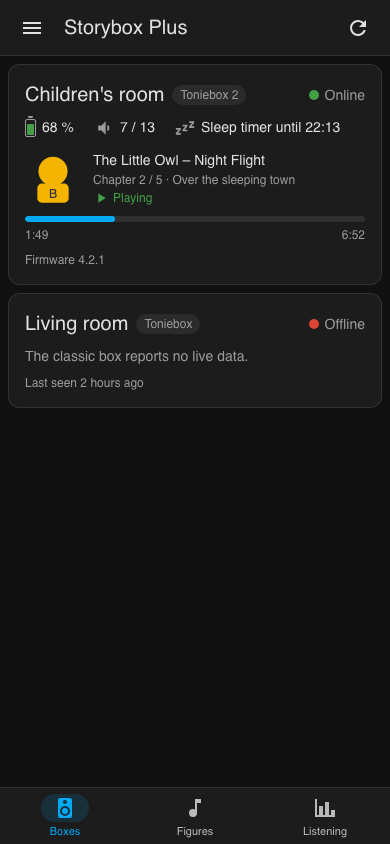
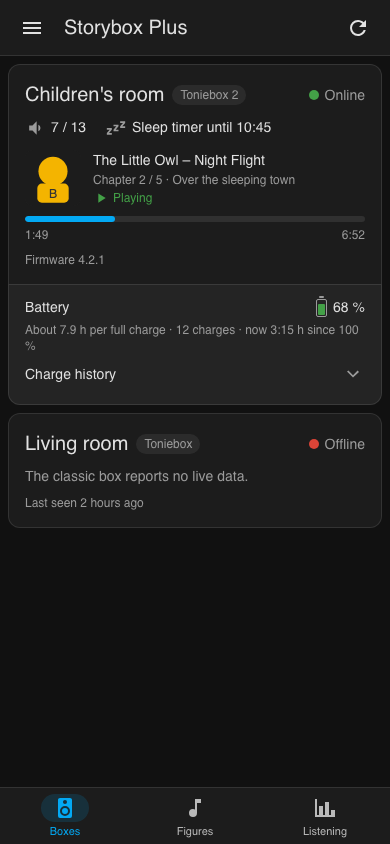
A note on the Listening tab says the times are counted locally; screenshots with the battery tile
The Listening tab opens with a box above the range chips: Home Assistant counts
the listening time itself from what a Toniebox 2 reports live, it is not read
from the manufacturer's cloud, so it starts with the setup, lacks the classic
box and the hours Home Assistant was not running. The footnote about the
classic box is folded into it. The README screenshots of the Boxes and
Listening tabs are rendered again, with the attached battery tile and the note.

diff --git a/custom_components/storybox_plus/frontend/storybox-plus-panel.js b/custom_components/storybox_plus/frontend/storybox-plus-panel.js
@@ -23,6 +23,7 @@ if (!customElements.get("storybox-plus-panel")) {
     flash: "M7,2V13H10V22L17,10H13L17,2H7Z",
     volume: "M5,9V15H9L14,20V4L9,9M18.5,12C18.5,10.23 17.5,8.71 16,7.97V16C17.5,15.29 18.5,13.76 18.5,12Z",
     sleep: "M23,12H17V10L20.39,6H17V4H23V6L19.62,10H23V12M15,16H9V14L12.39,10H9V8H15V10L11.62,14H15V16M7,20H1V18L4.39,14H1V12H7V14L3.62,18H7V20Z",
+    info: "M11,9H13V7H11M12,20C7.59,20 4,16.41 4,12C4,7.59 7.59,4 12,4C16.41,4 20,7.59 20,12C20,16.41 16.41,20 12,20M12,2A10,10 0 0,0 2,12A10,10 0 0,0 12,22A10,10 0 0,0 22,12A10,10 0 0,0 12,2M11,17H13V11H11V17Z",
   };
 
   // Tab id (also the URL hash), icon, text
@@ -62,7 +63,8 @@ if (!customElements.get("storybox-plus-panel")) {
       lastDays: "last {n} days", since: "since {d}", sinceSetup: "since the setup",
       total: "Listening time", top: "Most played", perDay: "Per day", perWeek: "Per week", perBox: "Per box",
       weekOf: "Week of {d}",
-      noteClassic: "Only a Toniebox 2 reports playback; the classic box is not counted.",
+      noteLocalTitle: "Counted locally",
+      noteLocal: "Home Assistant counts the listening time itself, from what a Toniebox 2 reports live. It does not come from the manufacturer's cloud and so cannot be complete: it starts with the setup, the classic Toniebox is missing, and so is anything played while Home Assistant was not running.",
       disabled: "Counting is switched off in the integration's options.", noStats: "Nothing was counted yet.",
     },
     de: {
@@ -91,7 +93,8 @@ if (!customElements.get("storybox-plus-panel")) {
       lastDays: "letzte {n} Tage", since: "seit {d}", sinceSetup: "seit der Einrichtung",
       total: "Hörzeit", top: "Meistgehört", perDay: "Pro Tag", perWeek: "Pro Woche", perBox: "Pro Box",
       weekOf: "Woche vom {d}",
-      noteClassic: "Nur eine Toniebox 2 meldet Wiedergabe; die klassische Box wird nicht gezählt.",
+      noteLocalTitle: "Lokal mitgezählt",
+      noteLocal: "Home Assistant zählt die Hörzeit selbst mit, aus dem, was eine Toniebox 2 live meldet. Sie stammt nicht aus der Hersteller-Cloud und ist deshalb nicht vollständig: Sie beginnt mit der Einrichtung, die klassische Toniebox fehlt, und Zeiten, in denen Home Assistant nicht lief, fehlen ebenso.",
       disabled: "Das Zählen ist in den Optionen der Integration ausgeschaltet.", noStats: "Noch nichts gezählt.",
     },
   };
@@ -607,15 +610,16 @@ if (!customElements.get("storybox-plus-panel")) {
       const err = this._errors[`stats:${range}`];
       const chips = RANGES.map(([k]) =>
         `<button class="chip pick${range === k ? " on" : ""}" data-range="${k}">${esc(t[`range_${k}`])}</button>`).join("");
-      const note = `<div class="muted small note">${esc(t.noteClassic)}</div>`;
-      let html = `<div class="filters"><div class="chips">${chips}</div></div>`;
-      if (!s) return html + (err ? this._fail(err) : this._loading()) + note;
+      // Where the numbers come from, and so what they cannot contain: above everything else
+      const note = `<div class="alert notice">${icon("info")}<div><div class="notice-title">${esc(t.noteLocalTitle)}</div>${esc(t.noteLocal)}</div></div>`;
+      let html = note + `<div class="filters"><div class="chips">${chips}</div></div>`;
+      if (!s) return html + (err ? this._fail(err) : this._loading());
       if (err) html += this._fail(err);
       if (!s.enabled) html += this._alert(t.disabled);
       const label = s.days ? fill(t.lastDays, { n: s.days }) : s.first_day ? fill(t.since, { d: this._date(s.first_day, true) }) : t.sinceSetup;
       html += this._card("", `<div class="total"><span class="big">${esc(hm(s.total_seconds))}</span><span class="unit">h</span></div>` +
         `<div class="muted">${esc(t.total)} · ${esc(label)}</div>`);
-      if (!s.total_seconds && !s.top.length) return html + this._card("", `<div class="muted">${esc(t.noStats)}</div>`) + note;
+      if (!s.total_seconds && !s.top.length) return html + this._card("", `<div class="muted">${esc(t.noStats)}</div>`);
       const max = Math.max(...s.top.map((x) => x.seconds), 1);
       if (s.top.length) {
         html += this._card(esc(t.top), `<ol class="top">${s.top.map((x, i) =>
@@ -627,7 +631,7 @@ if (!customElements.get("storybox-plus-panel")) {
         html += this._card(esc(t.perBox), `<table class="kv">${s.per_box.map((b) =>
           `<tr><th>${esc(b.name || b.box_id)}</th><td>${esc(hm(b.seconds))} h</td></tr>`).join("")}</table>`);
       }
-      return html + note;
+      return html;
     }
 
     // One bar per day of the window, per week when there are many; empty days stay empty
@@ -789,6 +793,9 @@ if (!customElements.get("storybox-plus-panel")) {
     background: color-mix(in srgb, var(--info-color, #039be5) 12%, transparent); }
   .alert.warn { background: color-mix(in srgb, var(--warning-color, #ffa600) 16%, transparent); }
   .alert.err { background: color-mix(in srgb, var(--error-color, #db4437) 14%, transparent); }
+  .alert.notice { display: flex; gap: 12px; align-items: flex-start; }
+  .alert.notice .mdi { flex: none; width: 24px; height: 24px; fill: var(--info-color, #039be5); }
+  .notice-title { font-weight: 500; }
   .filters { display: flex; flex-wrap: wrap; gap: 8px 16px; align-items: center; margin-bottom: 12px; }
   .search { display: flex; align-items: center; gap: 8px; flex: 1 1 240px; height: 40px; padding: 0 12px; border-radius: 20px;
     background: var(--card-background-color); border: 1px solid var(--divider-color); color: var(--secondary-text-color); }
@@ -843,7 +850,6 @@ if (!customElements.get("storybox-plus-panel")) {
   .chart .fill { fill: var(--primary-color); pointer-events: none; }
   .chart .hit { fill: transparent; }
   .chart .hit:hover { fill: color-mix(in srgb, var(--primary-text-color) 6%, transparent); }
-  .note { margin: 0 4px 16px; }
   `;
 
   customElements.define("storybox-plus-panel", StoryboxPlusPanel);

diff --git a/README.md b/README.md
@@ -116,7 +116,7 @@ actions:
 
 - **Boxes**: every box with its live state. For a Toniebox 2 also how long a charge lasts: every discharge from leaving the charger to the next charge, with the hours the box was switched on, the percent used and the projection for a full charge; the average of the latest charges on top.
 - **Figures**: the household's library with search, a filter by kind, the chapters, and which figure stands on a box right now. The cloud names the chapters of bought figures but not their lengths; the lengths are learned from a Toniebox 2 the first time the figure plays on it, and kept.
-- **Listening**: the most played figures, the total listening time, listening per day and per box, for the last 7, 30 or 365 days or since the setup.
+- **Listening**: the most played figures, the total listening time, listening per day and per box, for the last 7, 30 or 365 days or since the setup. A note at the top says where the numbers come from: Home Assistant counts them itself, they are not read from the cloud.
 
 The statistics are daily sums per figure and box, nothing more: no single plays, no times of day. The charge history keeps per discharge the day it ended, its hours and its percentages, also without times of day. They are kept in the integration's own store, not in the recorder, and start with the setup; the cloud offers no history. Only a Toniebox 2 reports playback, so only its listening is counted, and the page says so.
 

diff --git a/CHANGELOG.md b/CHANGELOG.md
@@ -13,7 +13,7 @@ First version, for the private test phase.
 - Sign-in with the account of the app; only a refresh token is stored, never the password. The token is renewed and rotated automatically; a refused token asks for a new sign-in.
 - One device per box with a connectivity sensor. The Toniebox 2 adds battery, charging, a media player (play, pause, volume, chapters, seeking within a chapter) and a figure event (placed, removed).
 - Live state of the Toniebox 2 through the cloud's push channel; the classic box is read from the REST API every 5 minutes.
-- Chapters of bought figures are learned from the box they stand on and kept, because the cloud's library does not list them.
+- Chapters of bought figures come from the library of the app; their lengths, which the library does not tell, are learned from the box the figure stands on and kept.
 - Listening time as daily sums per figure and box, kept in the integration's own store (option, on by default).
 - How long a charge of the Toniebox 2 lasts: discharge cycles with hours switched on, percent used and the projection per full charge.
 - A page for administrators with the boxes, the figures with their chapters and the listening statistics.
